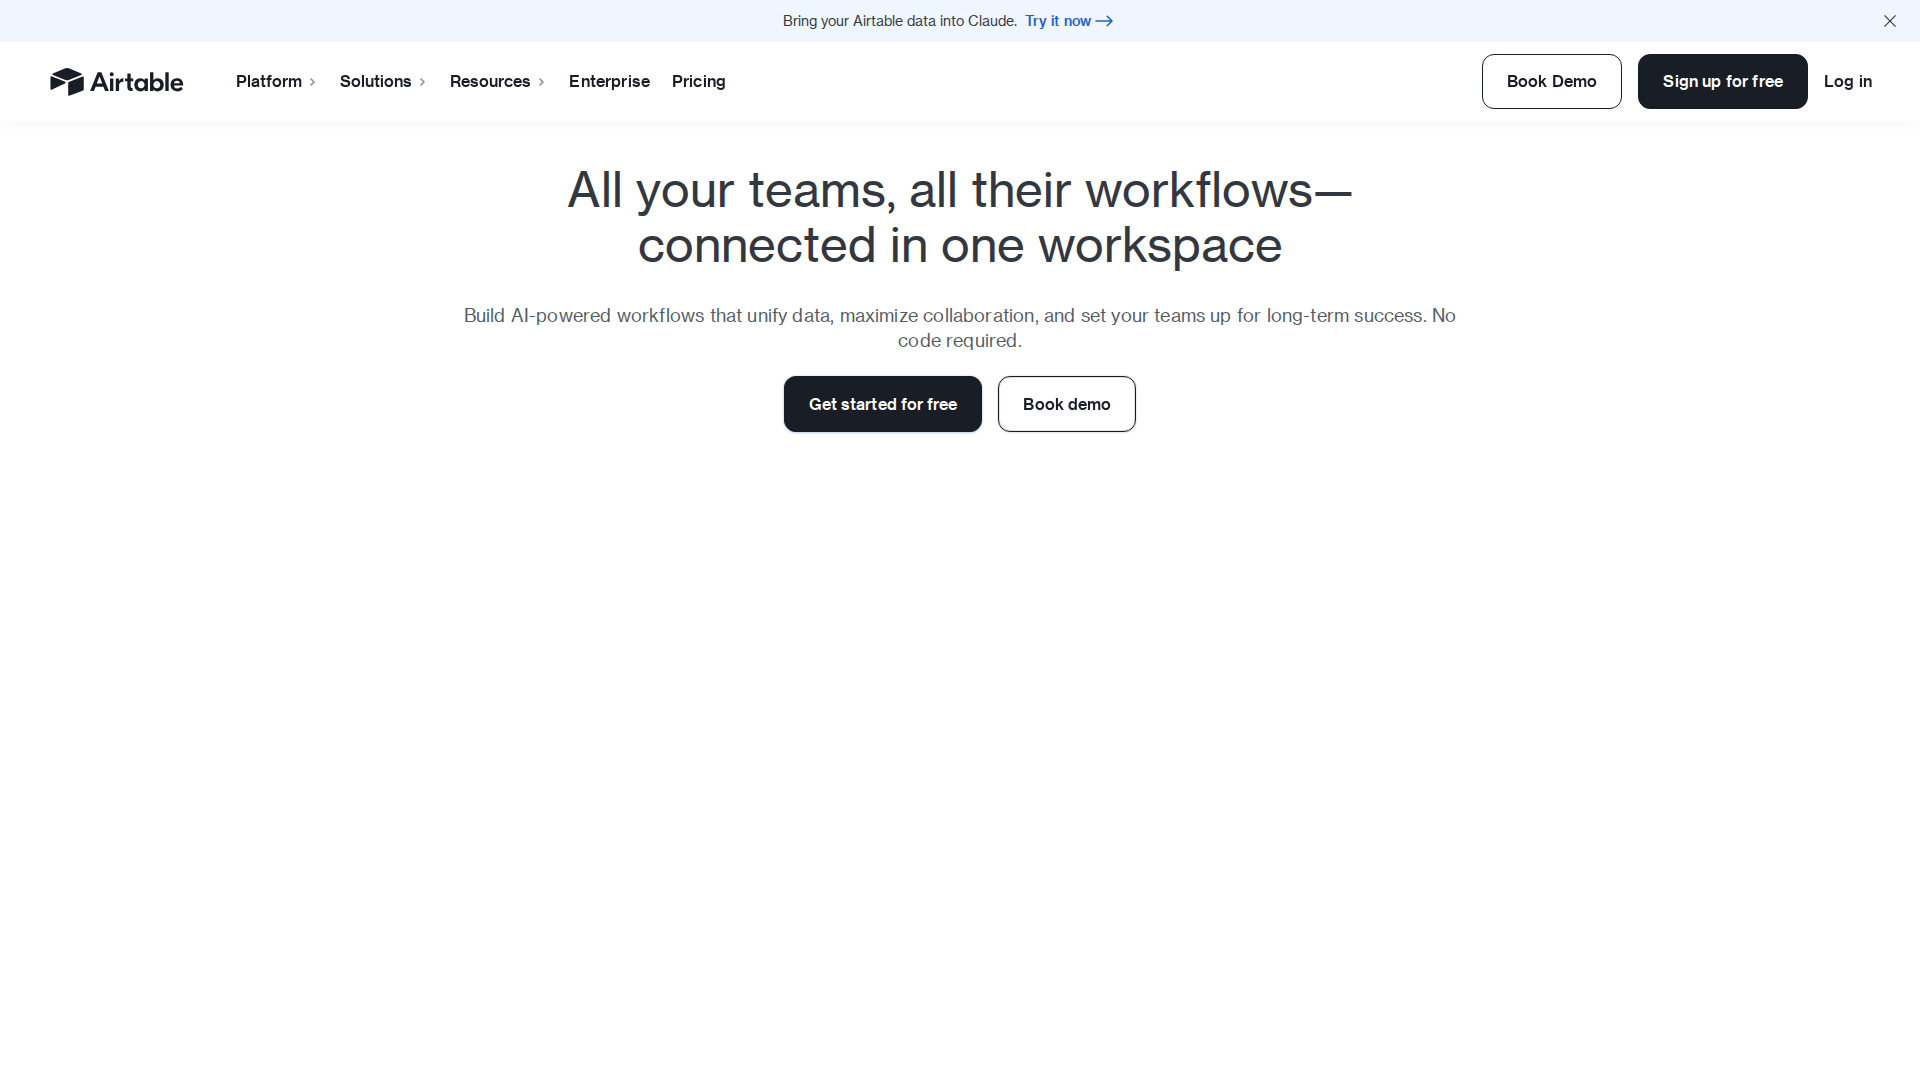
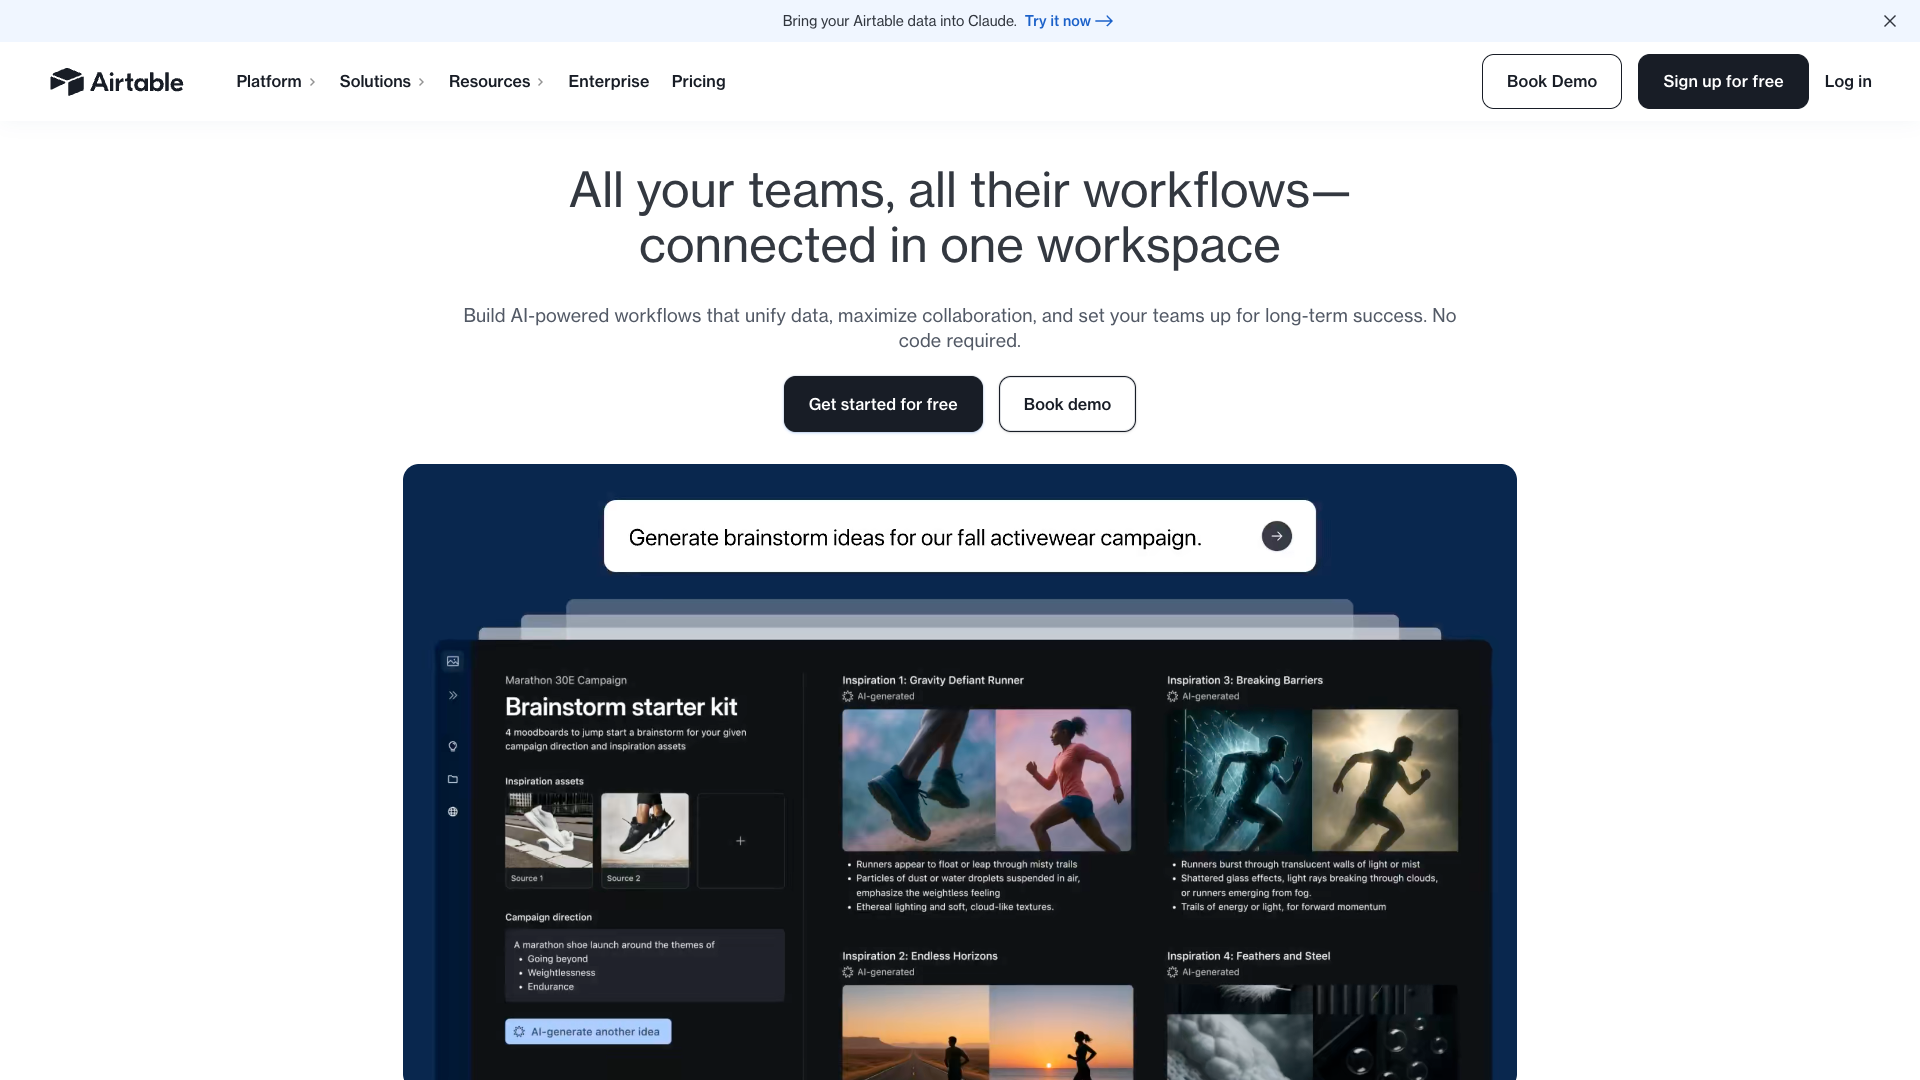
Fix Airtable hero (good image) + blank-guard + software WebGL

diff --git a/capture_all.py b/capture_all.py
@@ -1,15 +1,11 @@
 #!/usr/bin/env python3
-"""Capture all peer homepages to static PNGs for the Competitor Watch board.
+"""Capture peer homepages to static PNGs for the Competitor Watch boards.
 
-Runs in CI (GitHub Actions) with Playwright's bundled Chromium — no local
-Chrome channel required. Scrolls each page first so lazy / animated sections
-load, then takes a full-page shot. Writes:
-
-  shots/<domain>.png        the screenshot
-  shots/fingerprints.json   coarse hash per domain (change detection)
-  shots/meta.json           last-updated timestamp + which changed
-
-Usage: python3 capture_all.py
+Runs in GitHub Actions with Playwright's bundled Chromium. Scrolls each page so
+lazy/animated sections load, dismisses cookie banners, takes a full-page shot,
+and writes a first-fold (16:9) crop. A blank-guard keeps the last good image if a
+capture comes back mostly white (some GPU-heavy heroes don't render headless).
+Writes: shots/<domain>.png, shots/fold-<domain>.png, shots/fingerprints.json, shots/meta.json
 """
 import os, json, time, sys
 from playwright.sync_api import sync_playwright
@@ -18,7 +14,6 @@ ROOT = os.path.dirname(os.path.abspath(__file__))
 OUT_DIR = os.path.join(ROOT, "shots")
 os.makedirs(OUT_DIR, exist_ok=True)
 
-# Keep in sync with index.html SITES (ordered by traffic).
 SITES = [
     {"domain": "monday.com",     "url": "https://monday.com"},
     {"domain": "notion.com",     "url": "https://www.notion.com"},
@@ -29,8 +24,6 @@ SITES = [
 ]
 
 def dismiss_cookie_banner(page):
-    """Click a reject/close on common consent banners so they don't cover the hero.
-    Privacy-preserving: prefer 'reject' over 'accept'."""
     for sel in ["button:has-text('Reject All, Except Strictly Necessary')",
                 "button:has-text('Reject All')", "button:has-text('Reject')",
                 "button:has-text('Decline')", "[aria-label='Close']",
@@ -38,9 +31,7 @@ def dismiss_cookie_banner(page):
         try:
             el = page.query_selector(sel)
             if el and el.is_visible():
-                el.click(timeout=2000)
-                time.sleep(1)
-                return
+                el.click(timeout=2000); time.sleep(1); return
         except Exception:
             pass
 
@@ -49,68 +40,66 @@ def capture(page, url, out, width=1920):
     page.goto(url, wait_until="load", timeout=90000)
     time.sleep(5)
     dismiss_cookie_banner(page)
-    h = page.evaluate("document.body.scrollHeight")
-    y = 0
+    h = page.evaluate("document.body.scrollHeight"); y = 0
     while y < h:
         page.evaluate(f"window.scrollTo(0,{y})")
         time.sleep(2.2)
         page.evaluate("document.querySelectorAll('video').forEach(v=>{v.muted=true;v.play&&v.play().catch(()=>{});})")
-        y += 450
-        h = page.evaluate("document.body.scrollHeight")
-    page.evaluate("window.scrollTo(0, document.body.scrollHeight)")
-    time.sleep(2)
+        y += 450; h = page.evaluate("document.body.scrollHeight")
+    page.evaluate("window.scrollTo(0, document.body.scrollHeight)"); time.sleep(2)
     try:
         page.wait_for_function(
-            "Array.from(document.images).every(i => i.complete && i.naturalWidth > 0)",
-            timeout=15000)
+            "Array.from(document.images).every(i => i.complete && i.naturalWidth > 0)", timeout=15000)
     except Exception:
         pass
-    page.evaluate("window.scrollTo(0,0)")
-    time.sleep(7)
+    page.evaluate("window.scrollTo(0,0)"); time.sleep(8)
     page.screenshot(path=out, full_page=True)
     save_fold_crop(out)
 
 def save_fold_crop(full_png):
-    """Save a first-fold (top 16:9) crop next to the full shot as fold-<name>.png.
-    Used by the first-folds board so each tile shows only the hero."""
     try:
         from PIL import Image
-        img = Image.open(full_png).convert("RGB")
-        w, _ = img.size
-        fold_h = min(img.height, int(w * 9 / 16))   # 16:9 first fold
-        crop = img.crop((0, 0, w, fold_h))
+        img = Image.open(full_png).convert("RGB"); w, _ = img.size
+        fold_h = min(img.height, int(w * 9 / 16))
         d = os.path.dirname(full_png); base = os.path.basename(full_png)
-        crop.save(os.path.join(d, "fold-" + base))
+        img.crop((0, 0, w, fold_h)).save(os.path.join(d, "fold-" + base))
     except Exception as e:
-        print(f"  fold-crop failed for {full_png}: {e}", flush=True)
+        print(f"  fold-crop failed: {e}", flush=True)
+
+def blank_fraction(path):
+    """Fraction of near-white pixels in the first fold — high = blank render."""
+    try:
+        from PIL import Image
+        img = Image.open(path).convert("RGB"); w, _ = img.size
+        crop = img.crop((0, 0, w, min(img.height, int(w * 9 / 16)))).resize((160, 90))
+        px = list(crop.getdata())
+        white = sum(1 for r, g, b in px if r > 240 and g > 240 and b > 240)
+        return white / len(px)
+    except Exception:
+        return 0.0
 
 def fingerprint(path):
-    """Coarse hash of the top of the image — flags layout/design changes."""
     try:
         from PIL import Image
         img = Image.open(path).convert("RGB").resize((100, 140))
-        px = list(img.getdata())
-        s = 0
+        px = list(img.getdata()); s = 0
         for i in range(0, len(px), 6):
-            r, g, b = px[i]
-            s += r + g + b
+            r, g, b = px[i]; s += r + g + b
         return s
     except Exception:
         return None
 
 def main():
     fp_path = os.path.join(OUT_DIR, "fingerprints.json")
-    try:
-        old_fp = json.load(open(fp_path))
-    except Exception:
-        old_fp = {}
-
+    try: old_fp = json.load(open(fp_path))
+    except Exception: old_fp = {}
     new_fp, changed, failed = {}, [], []
     with sync_playwright() as p:
         browser = p.chromium.launch(headless=True, args=[
             "--autoplay-policy=no-user-gesture-required",
             "--disable-features=PreloadMediaEngagementData,AutoplayIgnoreWebAudio",
             "--disable-blink-features=AutomationControlled",
+            "--enable-unsafe-swiftshader",  # software WebGL so canvas heroes render headless
         ])
         ctx = browser.new_context(
             viewport={"width": 1920, "height": 900}, device_scale_factor=1,
@@ -120,34 +109,41 @@ def main():
         for site in SITES:
             dom, url = site["domain"], site["url"]
             out = os.path.join(OUT_DIR, f"{dom}.png")
+            fold = os.path.join(OUT_DIR, f"fold-{dom}.png")
+            # remember last good images in case this capture is blank
+            prev_full = open(out, "rb").read() if os.path.exists(out) else None
+            prev_fold = open(fold, "rb").read() if os.path.exists(fold) else None
             print(f"Capturing {dom} …", flush=True)
             page = ctx.new_page()
             try:
                 capture(page, url, out)
-                nfp = fingerprint(out)
-                if nfp is not None:
-                    new_fp[dom] = nfp
-                    ofp = old_fp.get(dom)
-                    if ofp is not None and abs(nfp - ofp) / max(nfp, ofp, 1) > 0.015:
-                        changed.append(dom)
-                print(f"  ok ({os.path.getsize(out)//1024} KB)", flush=True)
+                bf = blank_fraction(out)
+                if bf > 0.9 and prev_full:           # mostly white → keep last good
+                    open(out, "wb").write(prev_full)
+                    if prev_fold: open(fold, "wb").write(prev_fold)
+                    failed.append(dom)
+                    print(f"  blank ({bf:.0%} white) — kept previous good image", flush=True)
+                else:
+                    nfp = fingerprint(out)
+                    if nfp is not None:
+                        new_fp[dom] = nfp; ofp = old_fp.get(dom)
+                        if ofp is not None and abs(nfp - ofp) / max(nfp, ofp, 1) > 0.015:
+                            changed.append(dom)
+                    print(f"  ok ({os.path.getsize(out)//1024} KB, {bf:.0%} white)", flush=True)
             except Exception as e:
                 failed.append(dom)
+                if prev_full: open(out, "wb").write(prev_full)
+                if prev_fold: open(fold, "wb").write(prev_fold)
                 print(f"  FAILED {dom}: {e}", flush=True)
             finally:
                 page.close()
         browser.close()
-
-    # keep old fingerprint for any site that failed this run
-    for dom, v in old_fp.items():
-        new_fp.setdefault(dom, v)
+    for dom, v in old_fp.items(): new_fp.setdefault(dom, v)
     json.dump(new_fp, open(fp_path, "w"), indent=2)
     json.dump({"updated": int(time.time()), "changed": changed, "failed": failed},
               open(os.path.join(OUT_DIR, "meta.json"), "w"), indent=2)
     print(f"Done. changed={changed} failed={failed}", flush=True)
-    # don't fail the whole job if a single site hiccups, but do fail if ALL failed
-    if len(failed) == len(SITES):
-        sys.exit(1)
+    if len(failed) == len(SITES): sys.exit(1)
 
 if __name__ == "__main__":
     main()